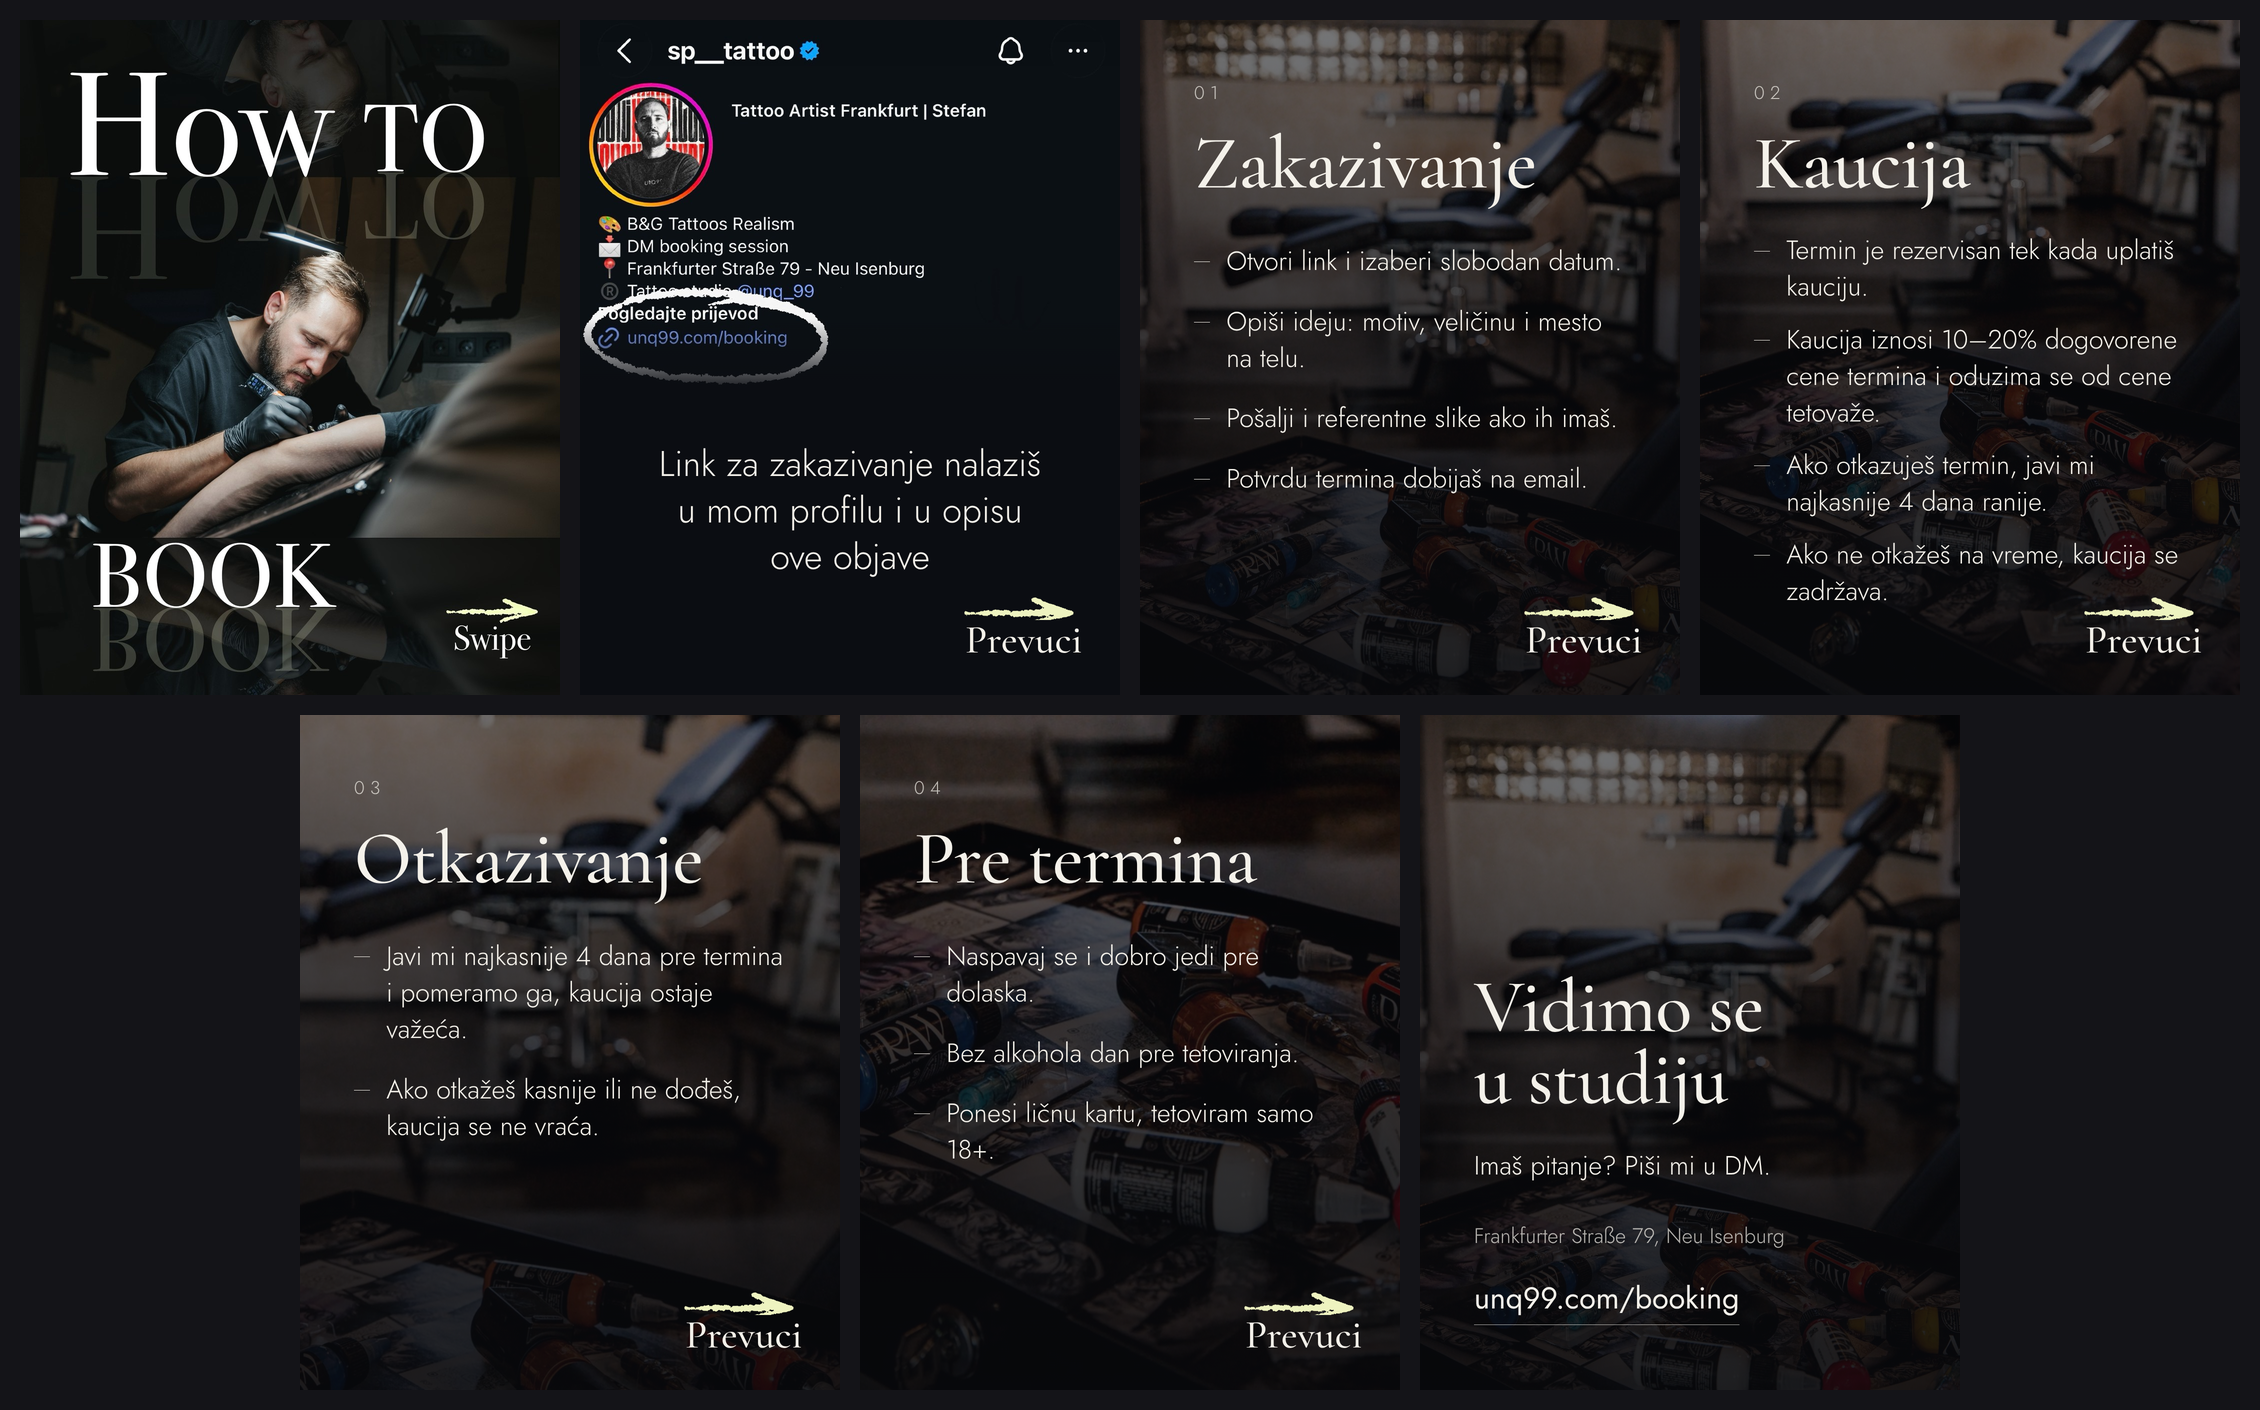
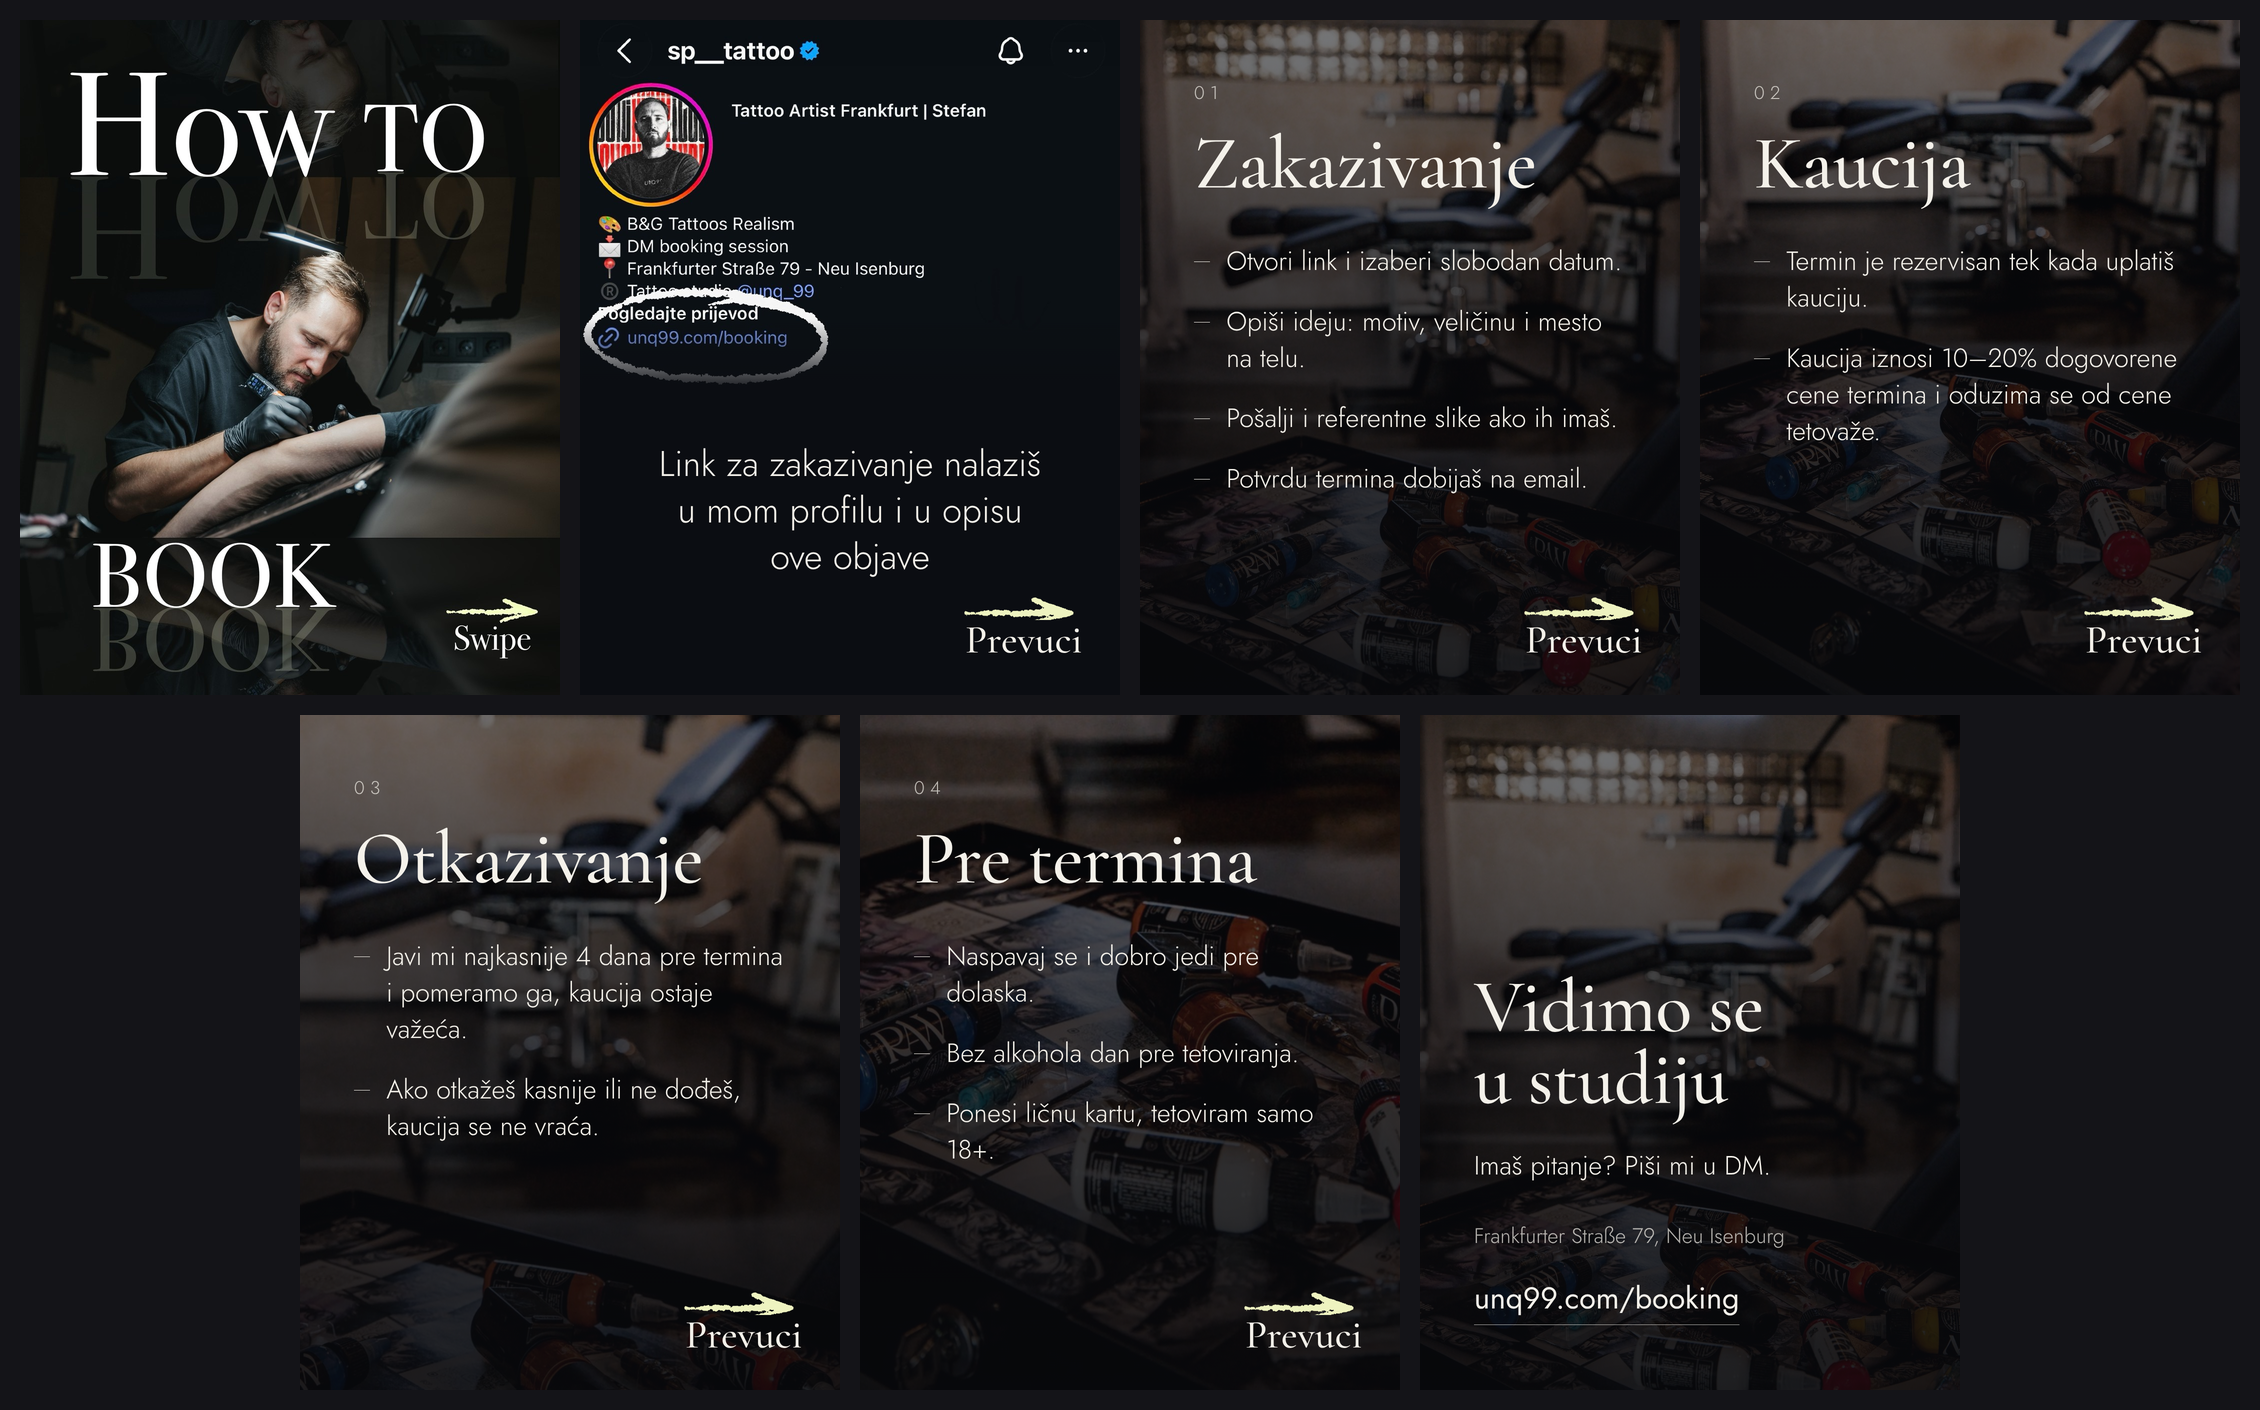
Vodič: uklonjeno otkazivanje sa slajda Kaucija (ima svoj slajd)
Claude-Session: https://claude.ai/code/session_01GbeNj6S8KFuWGEtm9SKwPz

Changed region(s): [[0.7743, 0.156, 0.9602, 0.4369]]

diff --git a/vodic/index.html b/vodic/index.html
@@ -65,11 +65,9 @@
 <section class="slide" style="background-image:url(img/studio.jpg);background-position:50% 100%"><div class="shade"></div><div class="in">
   <div class="no">02</div>
   <h2>Kaucija</h2>
-  <ul style="margin-top:6cqw;gap:3cqw">
+  <ul>
     <li>Termin je rezervisan tek kada uplatiš kauciju.</li>
     <li>Kaucija iznosi 10–20% dogovorene cene termina i oduzima se od cene tetovaže.</li>
-    <li>Ako otkazuješ termin, javi mi najkasnije 4 dana ranije.</li>
-    <li>Ako ne otkažeš na vreme, kaucija se zadržava.</li>
   </ul>
 </div><div class="swipe"><img src="img/strelica.png" alt=""><span>Prevuci</span></div></section>
 
